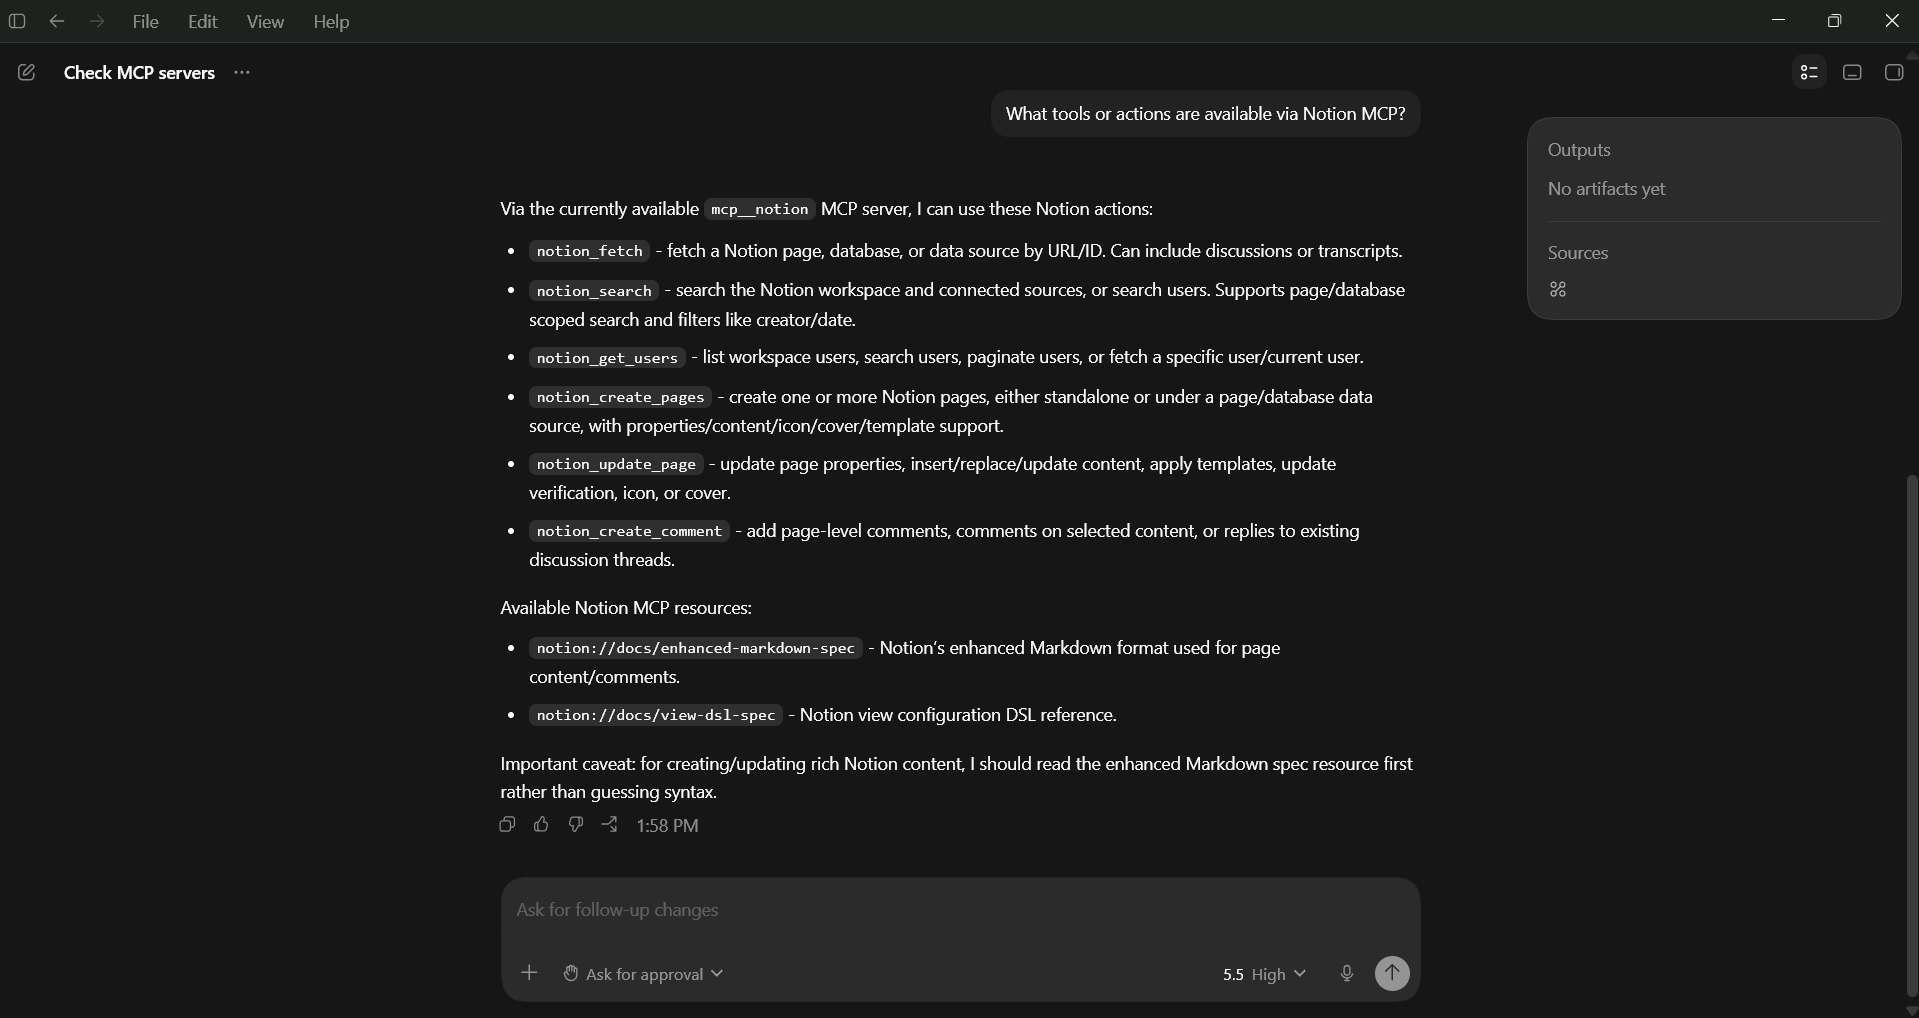
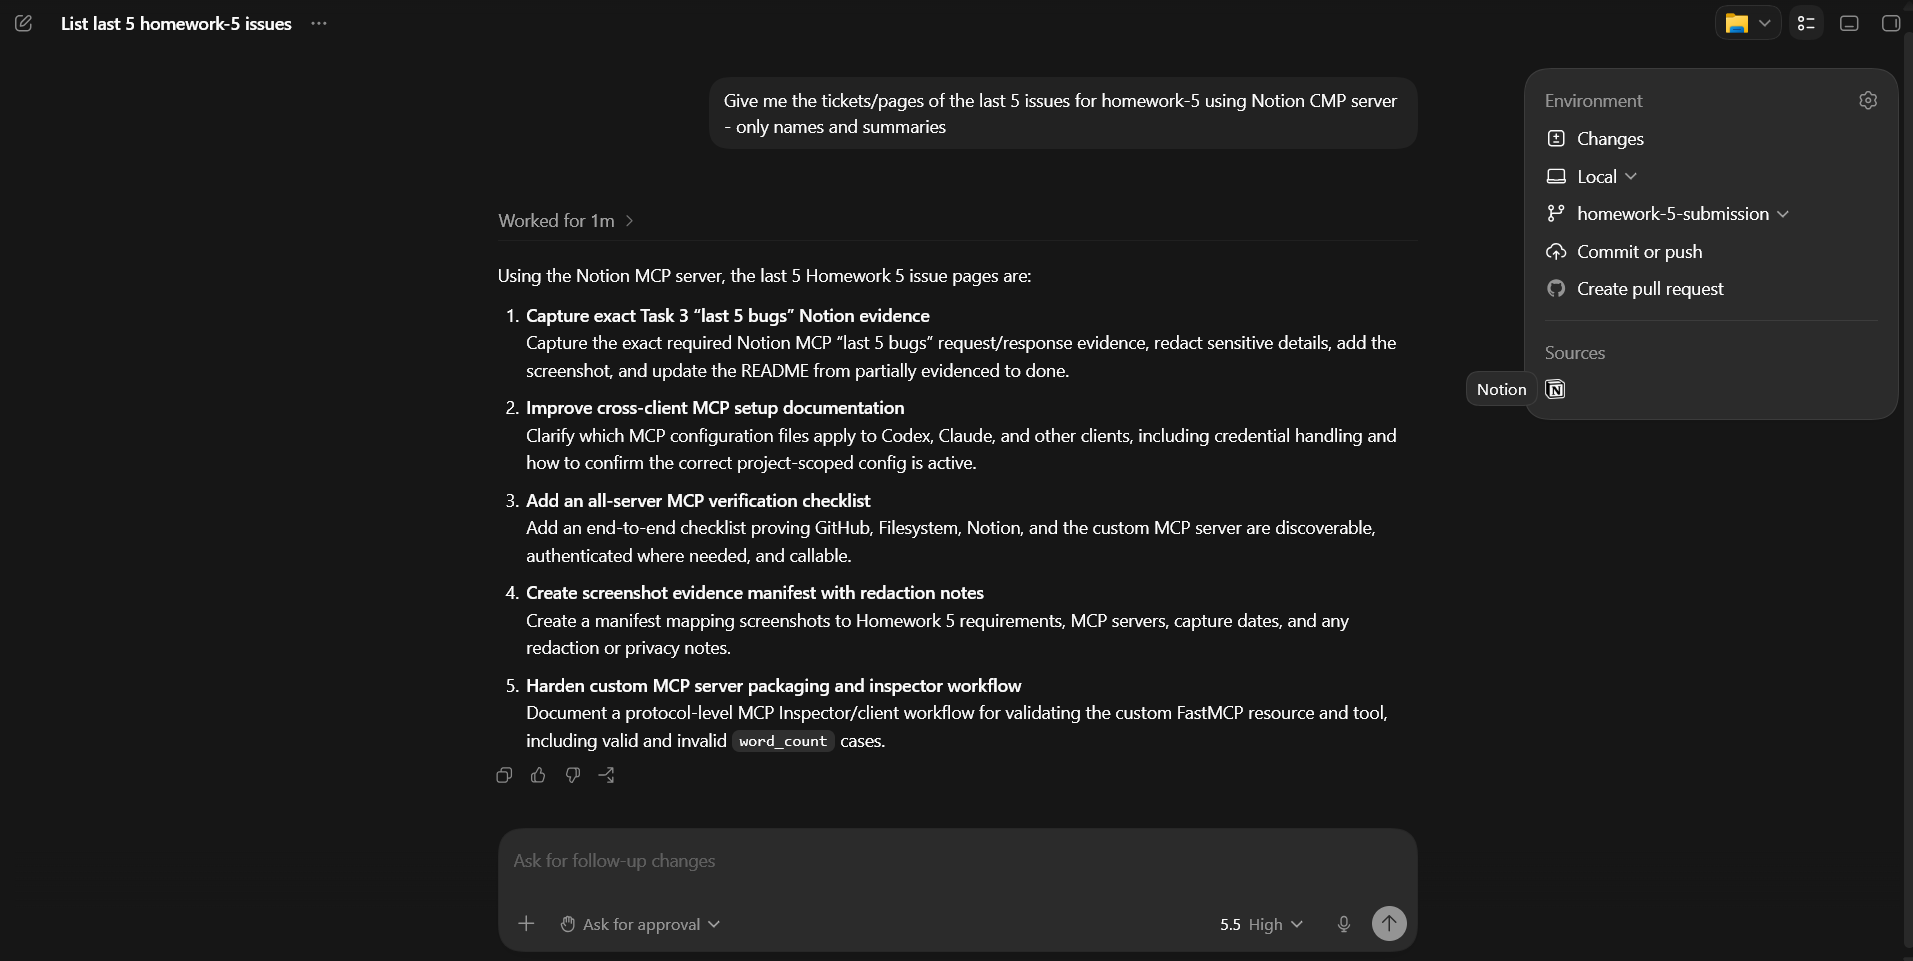
docs(homework-5): refresh Notion MCP evidence

diff --git a/homework-5/README.md b/homework-5/README.md
@@ -31,8 +31,8 @@ flowchart LR
 |---|---|---|---|
 | Task 1 | Configure GitHub MCP and perform a GitHub interaction | `docs/screenshots/task-1-using-github-mcp-1.png`, `docs/screenshots/task-1-using-github-mcp-2.png` | Done |
 | Task 2 | Configure Filesystem MCP and perform a file interaction | `docs/screenshots/task-2-using-filesystem-mcp.png` | Done |
-| Task 3 | Configure Jira or Notion MCP and request the last 5 bug tickets/pages | `docs/screenshots/task-3-using-notion-mcp.png` shows Notion MCP availability; `docs/screenshots/task-4-using-custom-mcp-and-notion.png` shows Notion page creation | Partially evidenced: the repo does not currently include a screenshot of the exact "last 5 bugs" request/response |
-| Task 4 | Build a custom FastMCP server with Resource, `read` Tool, dependency, source file, docs, and evidence | `custom-mcp-server/server.py`, `custom-mcp-server/lorem-ipsum.md`, `custom-mcp-server/requirements.txt`, `docs/screenshots/custom-mcp-codex-read-lorem-ipsum-result.png`, `docs/screenshots/custom-mcp-codex-validation-result.png`, `docs/screenshots/task-4-using-custom-mcp-and-notion.png` | Done |
+| Task 3 | Configure Jira or Notion MCP and request the last 5 bug tickets/pages | `docs/screenshots/task-3-using-notion-mcp.png` directly shows the Notion MCP request and the five associated Homework 5 issue pages; `docs/screenshots/listing-mcp-server-actions.png` shows the available Notion MCP actions | Done |
+| Task 4 | Build a custom FastMCP server with Resource, `read` Tool, dependency, source file, docs, and evidence | `custom-mcp-server/server.py`, `custom-mcp-server/lorem-ipsum.md`, `custom-mcp-server/requirements.txt`, `docs/screenshots/custom-mcp-codex-read-lorem-ipsum-result.png`, `docs/screenshots/custom-mcp-codex-validation-result.png`, `docs/screenshots/task-4-using-custom-mcp-(and-notion).png` | Done |
 
 ## Custom FastMCP Server
 
@@ -50,8 +50,9 @@ Both Resource and Tool paths use the same validation helper. If `word_count` is 
 - `docs/screenshots/task-1-using-github-mcp-1.png` - GitHub MCP prompt and branch/PR response evidence.
 - `docs/screenshots/task-1-using-github-mcp-2.png` - Additional GitHub MCP branch/PR response and authentication status evidence.
 - `docs/screenshots/task-2-using-filesystem-mcp.png` - Filesystem MCP write/read interaction evidence.
-- `docs/screenshots/task-3-using-notion-mcp.png` - Notion MCP tools and resources availability evidence.
-- `docs/screenshots/task-4-using-custom-mcp-and-notion.png` - Custom Resource result and Notion MCP page creation evidence.
+- `docs/screenshots/task-3-using-notion-mcp.png` - Direct Notion MCP evidence for the Homework 5 five-issue request and response.
+- `docs/screenshots/listing-mcp-server-actions.png` - Notion MCP action and resource listing evidence.
+- `docs/screenshots/task-4-using-custom-mcp-(and-notion).png` - Custom Resource result and Notion MCP page creation evidence.
 - `docs/screenshots/custom-mcp-codex-read-lorem-ipsum-result.png` - Added by Codex, successful custom MCP tool call evidence from the earlier Task 4 pass.
 - `docs/screenshots/custom-mcp-codex-validation-result.png` - Added by Codex, local validation and startup evidence from the earlier Task 4 pass.
 
@@ -78,7 +79,8 @@ homework-5/
     │   ├── task-1-using-github-mcp-2.png
     │   ├── task-2-using-filesystem-mcp.png
     │   ├── task-3-using-notion-mcp.png
-    │   ├── task-4-using-custom-mcp-and-notion.png
+    │   ├── listing-mcp-server-actions.png
+    │   ├── task-4-using-custom-mcp-(and-notion).png
     │   ├── custom-mcp-codex-read-lorem-ipsum-result.png
     │   └── custom-mcp-codex-validation-result.png
     └── work-items/
@@ -100,5 +102,3 @@ python -m json.tool homework-5\mcp.json
 python -c "import sys; sys.path.insert(0, r'homework-5\custom-mcp-server'); import server; print(server.read(5))"
 Select-String -Path homework-5\custom-mcp-server\requirements.txt -Pattern '^fastmcp\b'
 ```
-
-Reviewer note: Task 3 still needs a screenshot of the exact Notion/Jira request from `TASKS.md` if strict grading requires visible proof of the "last 5 bugs" response rather than general Notion MCP capability and page-creation evidence.

diff --git a/homework-5/HOWTORUN.md b/homework-5/HOWTORUN.md
@@ -134,7 +134,8 @@ Expected results: tests pass, the smoke check prints `30` and `7`, the JSON conf
 - `docs/screenshots/task-1-using-github-mcp-1.png` - GitHub MCP interaction evidence.
 - `docs/screenshots/task-1-using-github-mcp-2.png` - Additional GitHub MCP interaction evidence.
 - `docs/screenshots/task-2-using-filesystem-mcp.png` - Filesystem MCP interaction evidence.
-- `docs/screenshots/task-3-using-notion-mcp.png` - Notion MCP availability evidence.
-- `docs/screenshots/task-4-using-custom-mcp-and-notion.png` - Custom Resource and Notion page creation evidence.
+- `docs/screenshots/task-3-using-notion-mcp.png` - Direct Notion MCP evidence for the Homework 5 five-issue request and response.
+- `docs/screenshots/listing-mcp-server-actions.png` - Notion MCP action and resource listing evidence.
+- `docs/screenshots/task-4-using-custom-mcp-(and-notion).png` - Custom Resource and Notion page creation evidence.
 - `docs/screenshots/custom-mcp-codex-read-lorem-ipsum-result.png` - Added by Codex, captured from a real local MCP client call to `read_lorem_ipsum`.
 - `docs/screenshots/custom-mcp-codex-validation-result.png` - Added by Codex, captured from real local validation and startup output.

diff --git a/homework-5/CHANGELOG.md b/homework-5/CHANGELOG.md
@@ -1,5 +1,21 @@
 # Homework 5 Changelog
 
+## Homework 5 - Step 5: Direct Notion evidence refresh
+
+### Added
+
+- Added updated direct Notion MCP screenshot evidence for the Homework 5 five-issue request and response.
+- Added the Notion MCP action-list screenshot as supporting evidence.
+
+### Changed
+
+- Updated README and HOWTORUN screenshot references to use the refreshed Task 3 evidence and renamed Task 4 screenshot.
+- Removed the previous README note that Task 3 was only partially evidenced.
+
+### Tests
+
+- Verified the refreshed screenshots manually and checked README references for the updated Task 3 and Task 4 evidence filenames.
+
 ## Homework 5 - Step 4: Final evidence and README review
 
 ### Added
